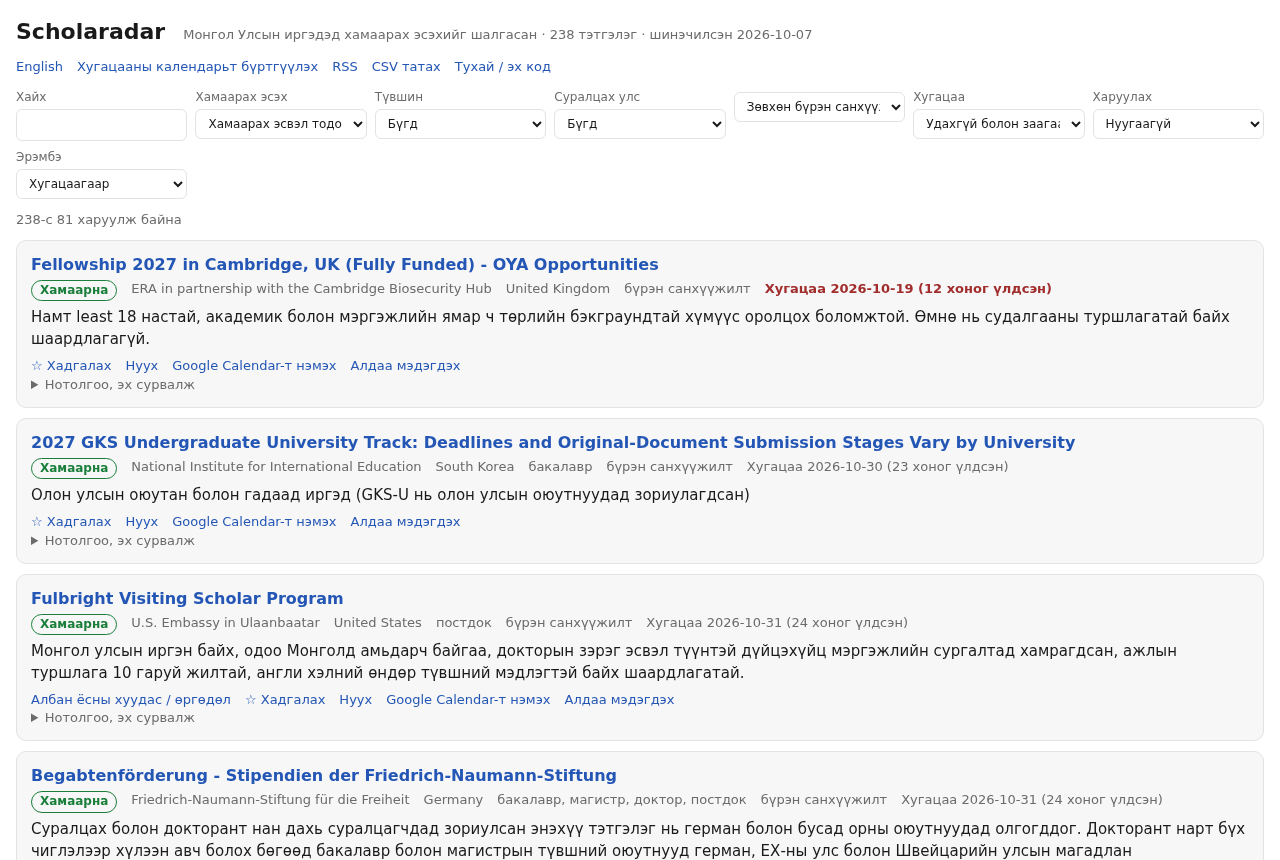
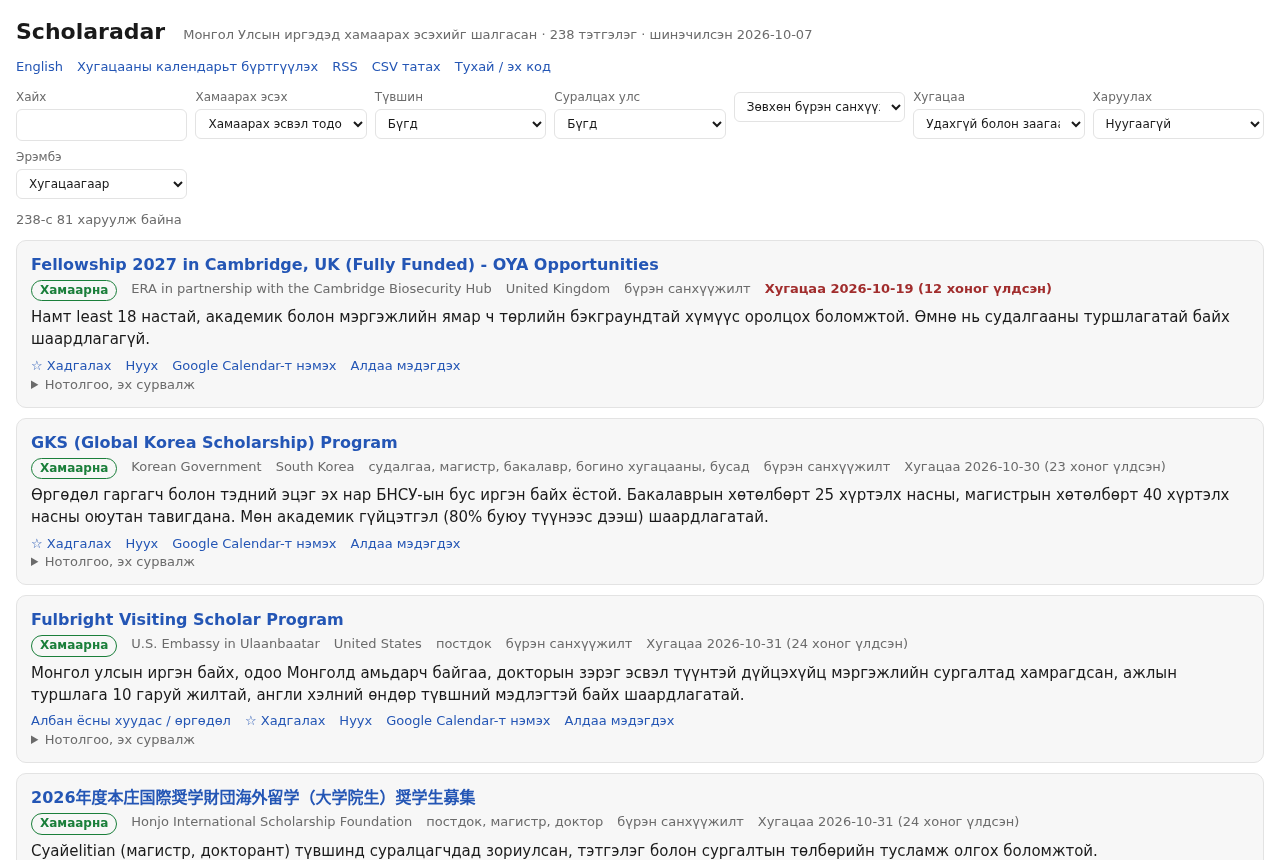
Official-domain rule for group representatives; merge best verdict and earliest deadline across a programme group

Changed region(s): [[0.0312, 0.4837, 0.9688, 0.9977]]

diff --git a/src/scholaradar/publish/dedupe.py b/src/scholaradar/publish/dedupe.py
@@ -13,6 +13,8 @@ CJK = re.compile(r"[぀-ヿ㐀-鿿가-힯]+")
 WORD = re.compile(r"[^\W\d_]{3,}", re.UNICODE)
 VERDICT_RANK = {"yes": 0, "unclear": 1, "no": 2}
 SHARED_PORTALS = ("campuschina.org", "csc.edu.cn", "studyinkorea.go.kr", "apply.iie.org", "esis.edu.mn", "turkiyeburslari.gov.tr", "stipendiumhungaricum.hu", "daad.de", "jasso.go.jp", "mext.go.jp", "studyinjapan.go.jp", "chevening.org")
+OFFICIAL_HOST = re.compile(r"(^|\.)(gov|go|edu|ac|mil|gc)\.[a-z]+$|\.(gov|edu|int)$|^(embassy|consulate)\.")
+OFFICIAL_HOSTS = ("chevening.org", "jds-scholarship.org", "australiaawardsmongolia.org", "stipendiumhungaricum.hu", "daad.de", "fulbrightprogram.org", "iie.org", "worldbank.org", "adb.org", "unesco.org", "jica.go.jp", "koica.go.kr", "nawa.gov.pl", "sbfi.admin.ch", "icdf.org.tw", "studyintaiwan.org", "studyinsweden.se", "campusfrance.org", "erasmus-plus.ec.europa.eu", "ec.europa.eu")
 AGGREGATOR_HOSTS = ("scholars4dev", "opportunitydesk", "haniseoul", "global-generations", "studyu", "educations.com", "selfstartglobal", "gaxi.jp", "scholarshiptab", "scholarshipbob", "mastersportal", "fundsforngos")
 
 
@@ -43,11 +45,21 @@ def _compatible_country(a: dict, b: dict) -> bool:
     return len({a["host_country"], b["host_country"]} - {""}) <= 1
 
 
+def is_official(url: str) -> bool:
+    host = host_of(url)
+    bare = host[4:] if host.startswith("www.") else host
+    if any(bare == known or bare.endswith("." + known) for known in OFFICIAL_HOSTS + SHARED_PORTALS):
+        return True
+    if any(agg in bare for agg in AGGREGATOR_HOSTS):
+        return False
+    return bool(OFFICIAL_HOST.search(bare))
+
+
 def _priority(row: dict, today: str) -> tuple:
-    official = not any(host in host_of(row["page_url"]) for host in AGGREGATOR_HOSTS)
+    official = is_official(row["page_url"])
     deadline = row["deadline"] or ""
     deadline_rank = 0 if deadline >= today and deadline else (1 if not deadline else 2)
-    return (deadline_rank, row.get("lang") != "en", VERDICT_RANK.get(row["target_eligible"], 3), not row["evidence_verified"], not official, deadline if deadline_rank == 0 else "", -len(row["eligibility_summary"] or ""))
+    return (row.get("lang") != "en", not official, deadline_rank, not row["evidence_verified"], VERDICT_RANK.get(row["target_eligible"], 3), -len(row["eligibility_summary"] or ""))
 
 
 def _canonical_key(row: dict) -> frozenset[str]:
@@ -55,17 +67,23 @@ def _canonical_key(row: dict) -> frozenset[str]:
     return title_tokens(name) if name else frozenset()
 
 
-def _merge_verdict(representative: dict, members: list[dict]) -> None:
-    if representative["target_eligible"] != "unclear" and representative["evidence_verified"]:
-        return
-    for verdict in ("yes", "no"):
-        best = next((m for m in members if m["target_eligible"] == verdict and m["evidence_verified"]), None)
-        if best is not None:
-            representative["target_eligible"] = verdict
-            representative["evidence_quote"] = best["evidence_quote"]
-            representative["evidence_verified"] = True
-            representative["nationality_mode"] = best["nationality_mode"]
-            return
+def _merge_verdict(representative: dict, members: list[dict], today: str) -> None:
+    verified = [m for m in members if m["evidence_verified"]]
+    yes = [m for m in verified if m["target_eligible"] == "yes"]
+    no = [m for m in verified if m["target_eligible"] == "no"]
+    chosen = yes[0] if yes else (no[0] if no and not any(m["target_eligible"] == "yes" for m in members) else None)
+    if chosen is not None and (representative["target_eligible"] != chosen["target_eligible"] or not representative["evidence_verified"]):
+        representative["target_eligible"] = chosen["target_eligible"]
+        representative["evidence_quote"] = chosen["evidence_quote"]
+        representative["evidence_verified"] = True
+        representative["nationality_mode"] = chosen["nationality_mode"]
+    elif chosen is None and representative["target_eligible"] == "no" and any(m["target_eligible"] != "no" for m in members):
+        representative["target_eligible"] = "unclear"
+    upcoming = sorted(m["deadline"] for m in members if m["deadline"] and m["deadline"] >= today)
+    if upcoming and (not representative["deadline"] or representative["deadline"] < today or representative["deadline"] > upcoming[0]):
+        representative["deadline"] = upcoming[0]
+        source = next(m for m in members if m["deadline"] == upcoming[0])
+        representative["deadline_text"] = source["deadline_text"]
 
 
 def group_opportunities(rows: list[dict], today: date | None = None) -> list[dict]:
@@ -112,7 +130,7 @@ def group_opportunities(rows: list[dict], today: date | None = None) -> list[dic
     for members in groups.values():
         members.sort(key=lambda row: _priority(row, today_text))
         representative = dict(members[0])
-        _merge_verdict(representative, members)
+        _merge_verdict(representative, members, today_text)
         representative["group_ids"] = [member["id"] for member in members]
         representative["also_on"] = [{"title": member["title"], "url": member["page_url"]} for member in members[1:]]
         merged.append(representative)

diff --git a/tests/test_schema_and_publish.py b/tests/test_schema_and_publish.py
@@ -112,3 +112,30 @@ def test_group_verdict_merges_from_verified_member() -> None:
     b = dict(SAMPLE_ROWS[0], id=2, title="Chevening Scholarship Mongolia", canonical_name="Chevening Scholarship", lang="mn", apply_url="", target_eligible="yes", evidence_verified=True, evidence_quote="Монгол Улсын иргэн байх", page_url="https://moe.gov.mn/post/2")
     groups = group_opportunities([a, b], date(2026, 10, 6))
     assert len(groups) == 1 and groups[0]["lang"] == "en" and groups[0]["target_eligible"] == "yes" and groups[0]["evidence_quote"] == "Монгол Улсын иргэн байх"
+
+
+def test_group_prefers_english_official_and_best_verdict_and_earliest_deadline() -> None:
+    from scholaradar.publish.dedupe import group_opportunities
+
+    ru_blog = dict(SAMPLE_ROWS[0], id=1, title="Стипендиум Хунгарикум 2027", canonical_name="Stipendium Hungaricum", host_country="Hungary", lang="ru", apply_url="", target_eligible="no", evidence_verified=True, evidence_quote="для граждан России", deadline="2027-01-15", page_url="https://global-generations.com/ru")
+    en_official = dict(SAMPLE_ROWS[0], id=2, title="Stipendium Hungaricum", canonical_name="Stipendium Hungaricum", host_country="Hungary", lang="en", apply_url="", target_eligible="unclear", evidence_verified=False, evidence_quote="", deadline=None, page_url="https://stipendiumhungaricum.hu/")
+    mn_ministry = dict(SAMPLE_ROWS[0], id=3, title="Унгарын Засгийн газрын тэтгэлэг", canonical_name="Stipendium Hungaricum", host_country="Hungary", lang="mn", apply_url="", target_eligible="yes", evidence_verified=True, evidence_quote="Монгол Улсын иргэн", deadline="2027-01-10", deadline_text="2027 оны 1 сарын 10", page_url="https://moe.gov.mn/post/9")
+    groups = group_opportunities([ru_blog, en_official, mn_ministry], date(2026, 10, 6))
+    assert len(groups) == 1
+    card = groups[0]
+    assert card["page_url"] == "https://stipendiumhungaricum.hu/"
+    assert card["target_eligible"] == "yes" and card["evidence_quote"] == "Монгол Улсын иргэн"
+    assert card["deadline"] == "2027-01-10" and card["deadline_text"] == "2027 оны 1 сарын 10"
+
+
+def test_is_official() -> None:
+    from scholaradar.publish.dedupe import is_official
+
+    assert is_official("https://mn.china-embassy.gov.cn/eng/zytz/1.htm")
+    assert is_official("https://www.studyinkorea.go.kr/ko/notice/1.do")
+    assert is_official("https://moe.gov.mn/post/1")
+    assert is_official("https://www.chevening.org/scholarship/mongolia/")
+    assert is_official("https://iec.imu.edu.cn/content.jsp")
+    assert not is_official("https://wentchina.com/complete-guide")
+    assert not is_official("https://www.scholars4dev.com/123/x")
+    assert not is_official("https://global-generations.com/blog/gks")
